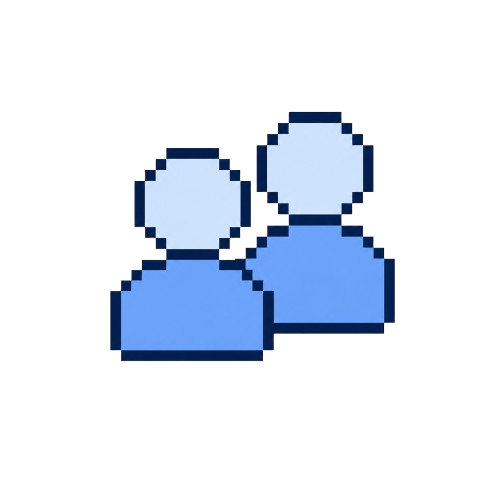
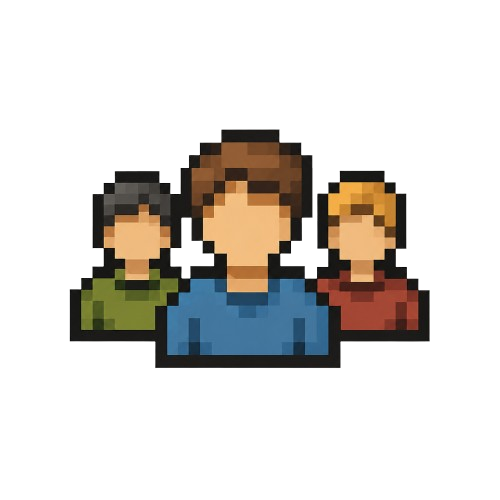
feat(home): reemplazar iconos de StatsPanel por imagenes

Changed region(s): [[0.12, 0.21, 0.87, 0.75]]

diff --git a/apps/frontend/src/components/home/StatsPanel.tsx b/apps/frontend/src/components/home/StatsPanel.tsx
@@ -1,18 +1,30 @@
-import { Users, FileText, HelpCircle, Shield, BarChart2 } from 'lucide-react';
+import Image from 'next/image';
 import styles from './StatsPanel.module.css';
 
 export const StatsPanel = () => {
   return (
     <div className={styles.statsCard}>
       <div className={styles.statsHeader}>
-        <BarChart2 size={20} className={styles.statsIcon} />
+        <div className={styles.headerIconWrapper}>
+          <Image
+            src="/assets/cards/estadisticas/estadisticas.png"
+            alt="Estadísticas"
+            width={24}
+            height={24}
+          />
+        </div>
         <h3 className={styles.statsTitle}>ESTADÍSTICAS</h3>
       </div>
 
       <ul className={styles.statsList}>
         <li className={styles.statItem}>
           <div className={styles.statIconWrapper}>
-            <Users size={20} />
+            <Image
+              src="/assets/cards/estadisticas/miembros.png"
+              alt="Miembros"
+              width={40}
+              height={40}
+            />
           </div>
           <div className={styles.statInfo}>
             <span className={styles.statNumber}>12.458</span>
@@ -22,7 +34,12 @@ export const StatsPanel = () => {
 
         <li className={styles.statItem}>
           <div className={styles.statIconWrapper}>
-            <FileText size={20} />
+            <Image
+              src="/assets/cards/estadisticas/materiales.png"
+              alt="Materiales"
+              width={40}
+              height={40}
+            />
           </div>
           <div className={styles.statInfo}>
             <span className={styles.statNumber}>3.672</span>
@@ -32,7 +49,12 @@ export const StatsPanel = () => {
 
         <li className={styles.statItem}>
           <div className={styles.statIconWrapper}>
-            <HelpCircle size={20} />
+            <Image
+              src="/assets/cards/estadisticas/preguntas.png"
+              alt="Preguntas"
+              width={40}
+              height={40}
+            />
           </div>
           <div className={styles.statInfo}>
             <span className={styles.statNumber}>8.931</span>
@@ -42,7 +64,12 @@ export const StatsPanel = () => {
 
         <li className={styles.statItem}>
           <div className={styles.statIconWrapper}>
-            <Shield size={20} />
+            <Image
+              src="/assets/cards/estadisticas/plan_estudio.png"
+              alt="Cursos activos"
+              width={40}
+              height={40}
+            />
           </div>
           <div className={styles.statInfo}>
             <span className={styles.statNumber}>1.250</span>

diff --git a/apps/frontend/src/components/home/StatsPanel.module.css b/apps/frontend/src/components/home/StatsPanel.module.css
@@ -58,12 +58,15 @@
 .statIconWrapper {
   width: 40px;
   height: 40px;
-  border-radius: 10px;
-  background-color: rgba(33, 150, 243, 0.1);
-  color: var(--color-primary-600);
   display: flex;
   align-items: center;
   justify-content: center;
+}
+
+.statIconWrapper img {
+  width: 100%;
+  height: 100%;
+  object-fit: contain;
 }
 
 .statInfo {
